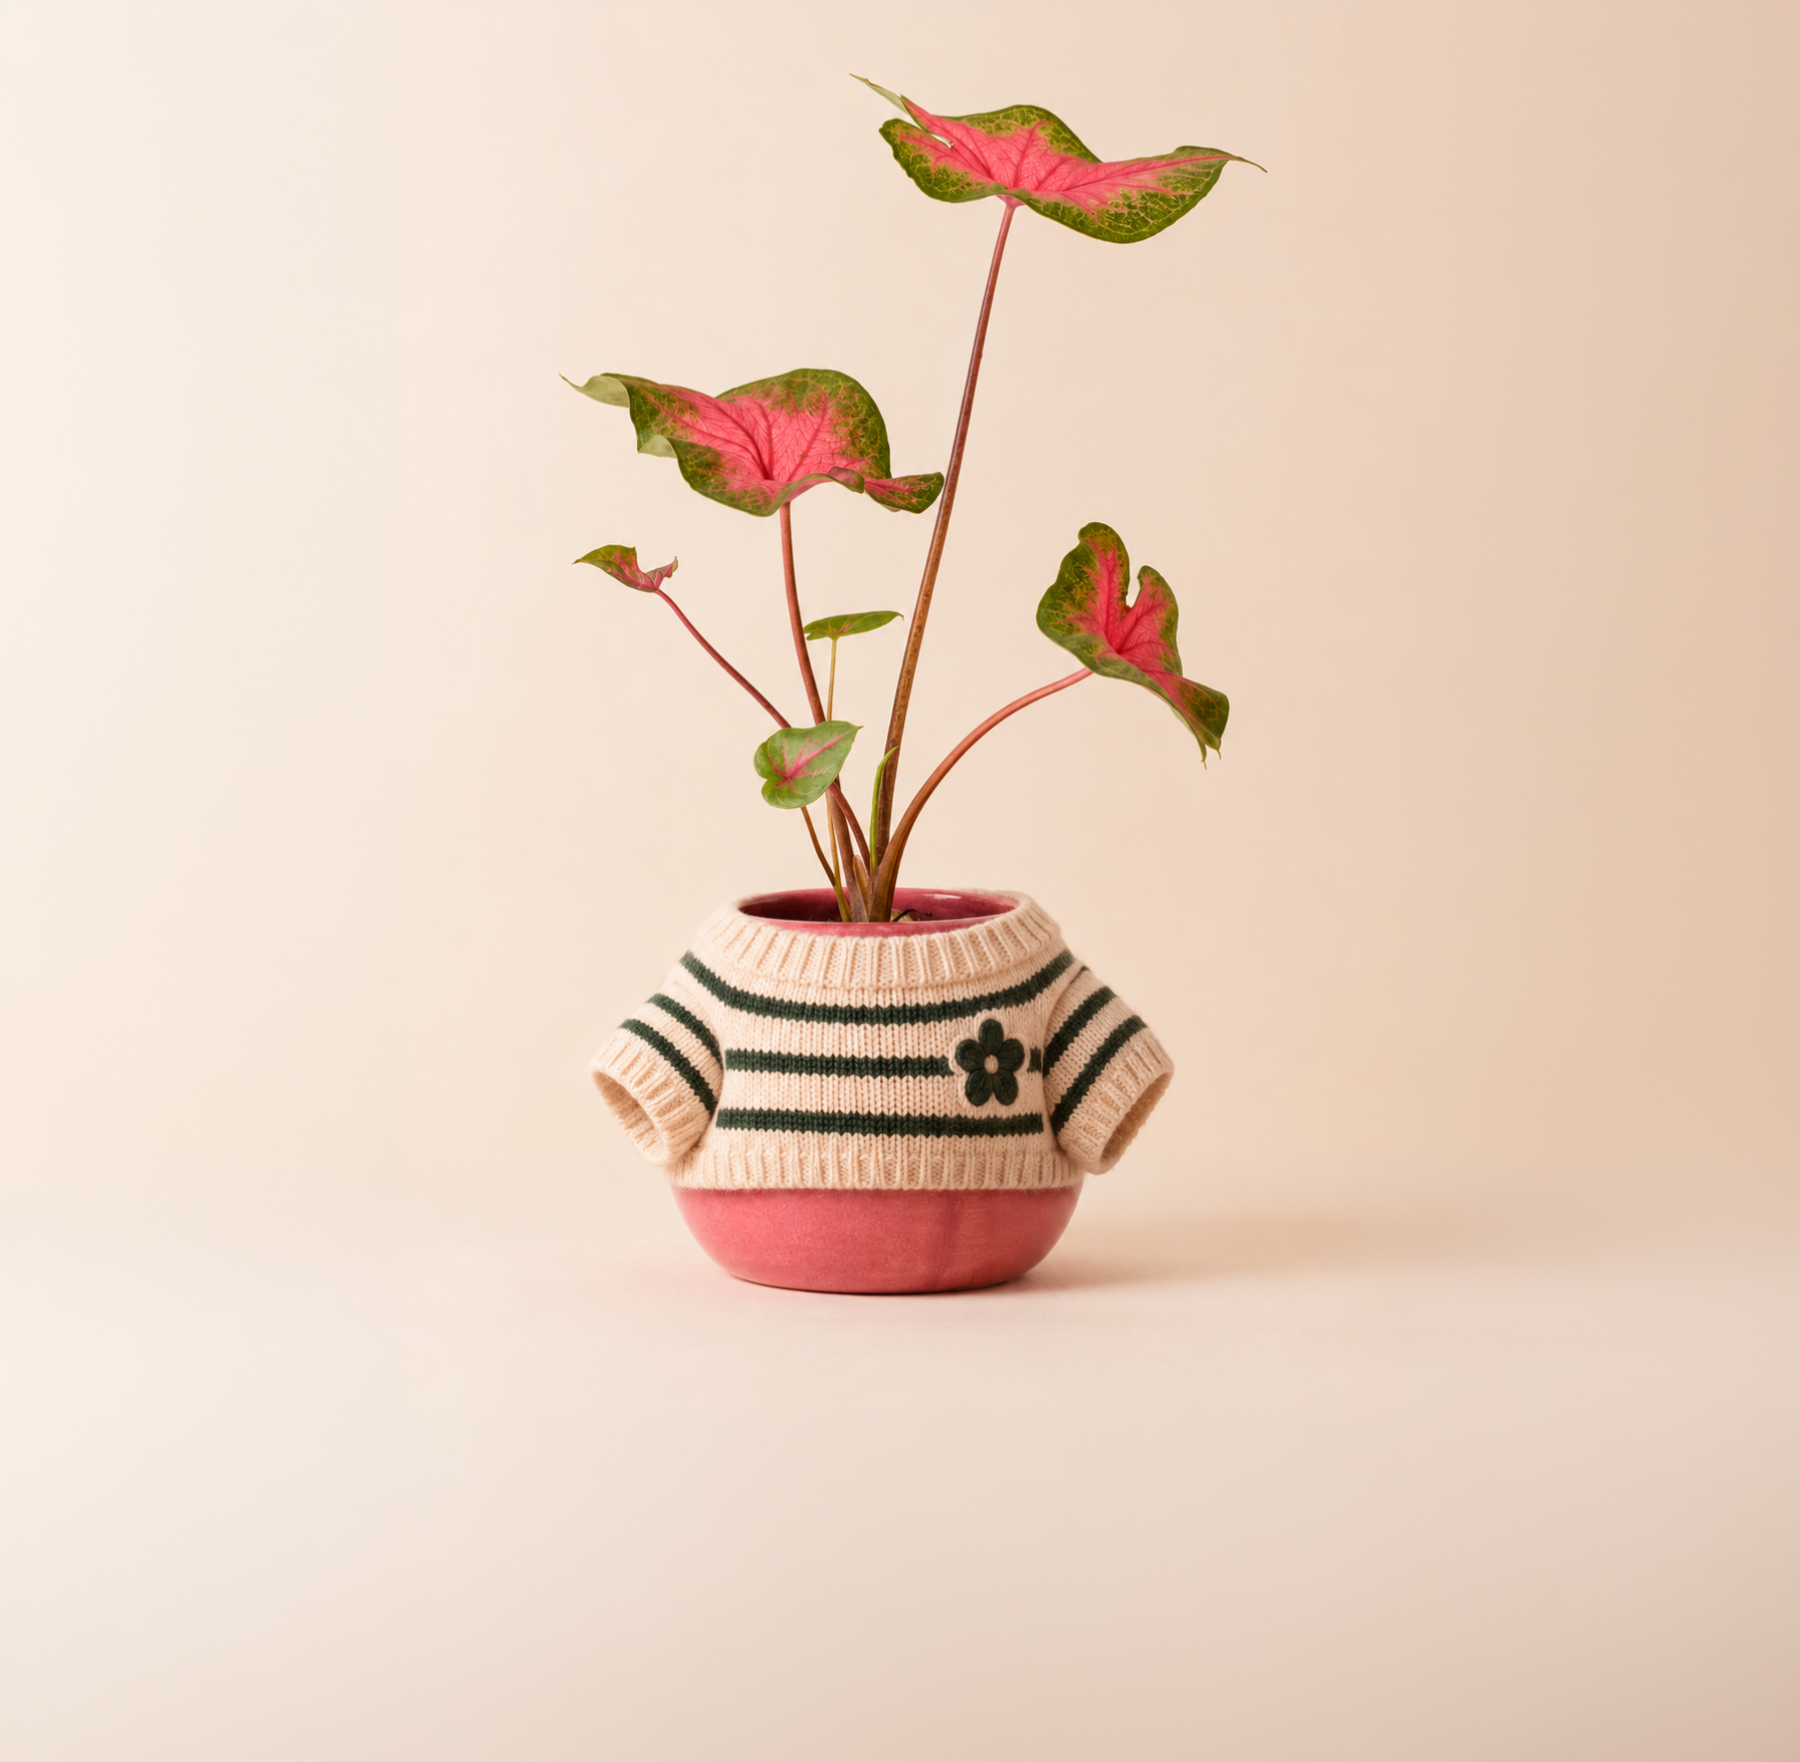
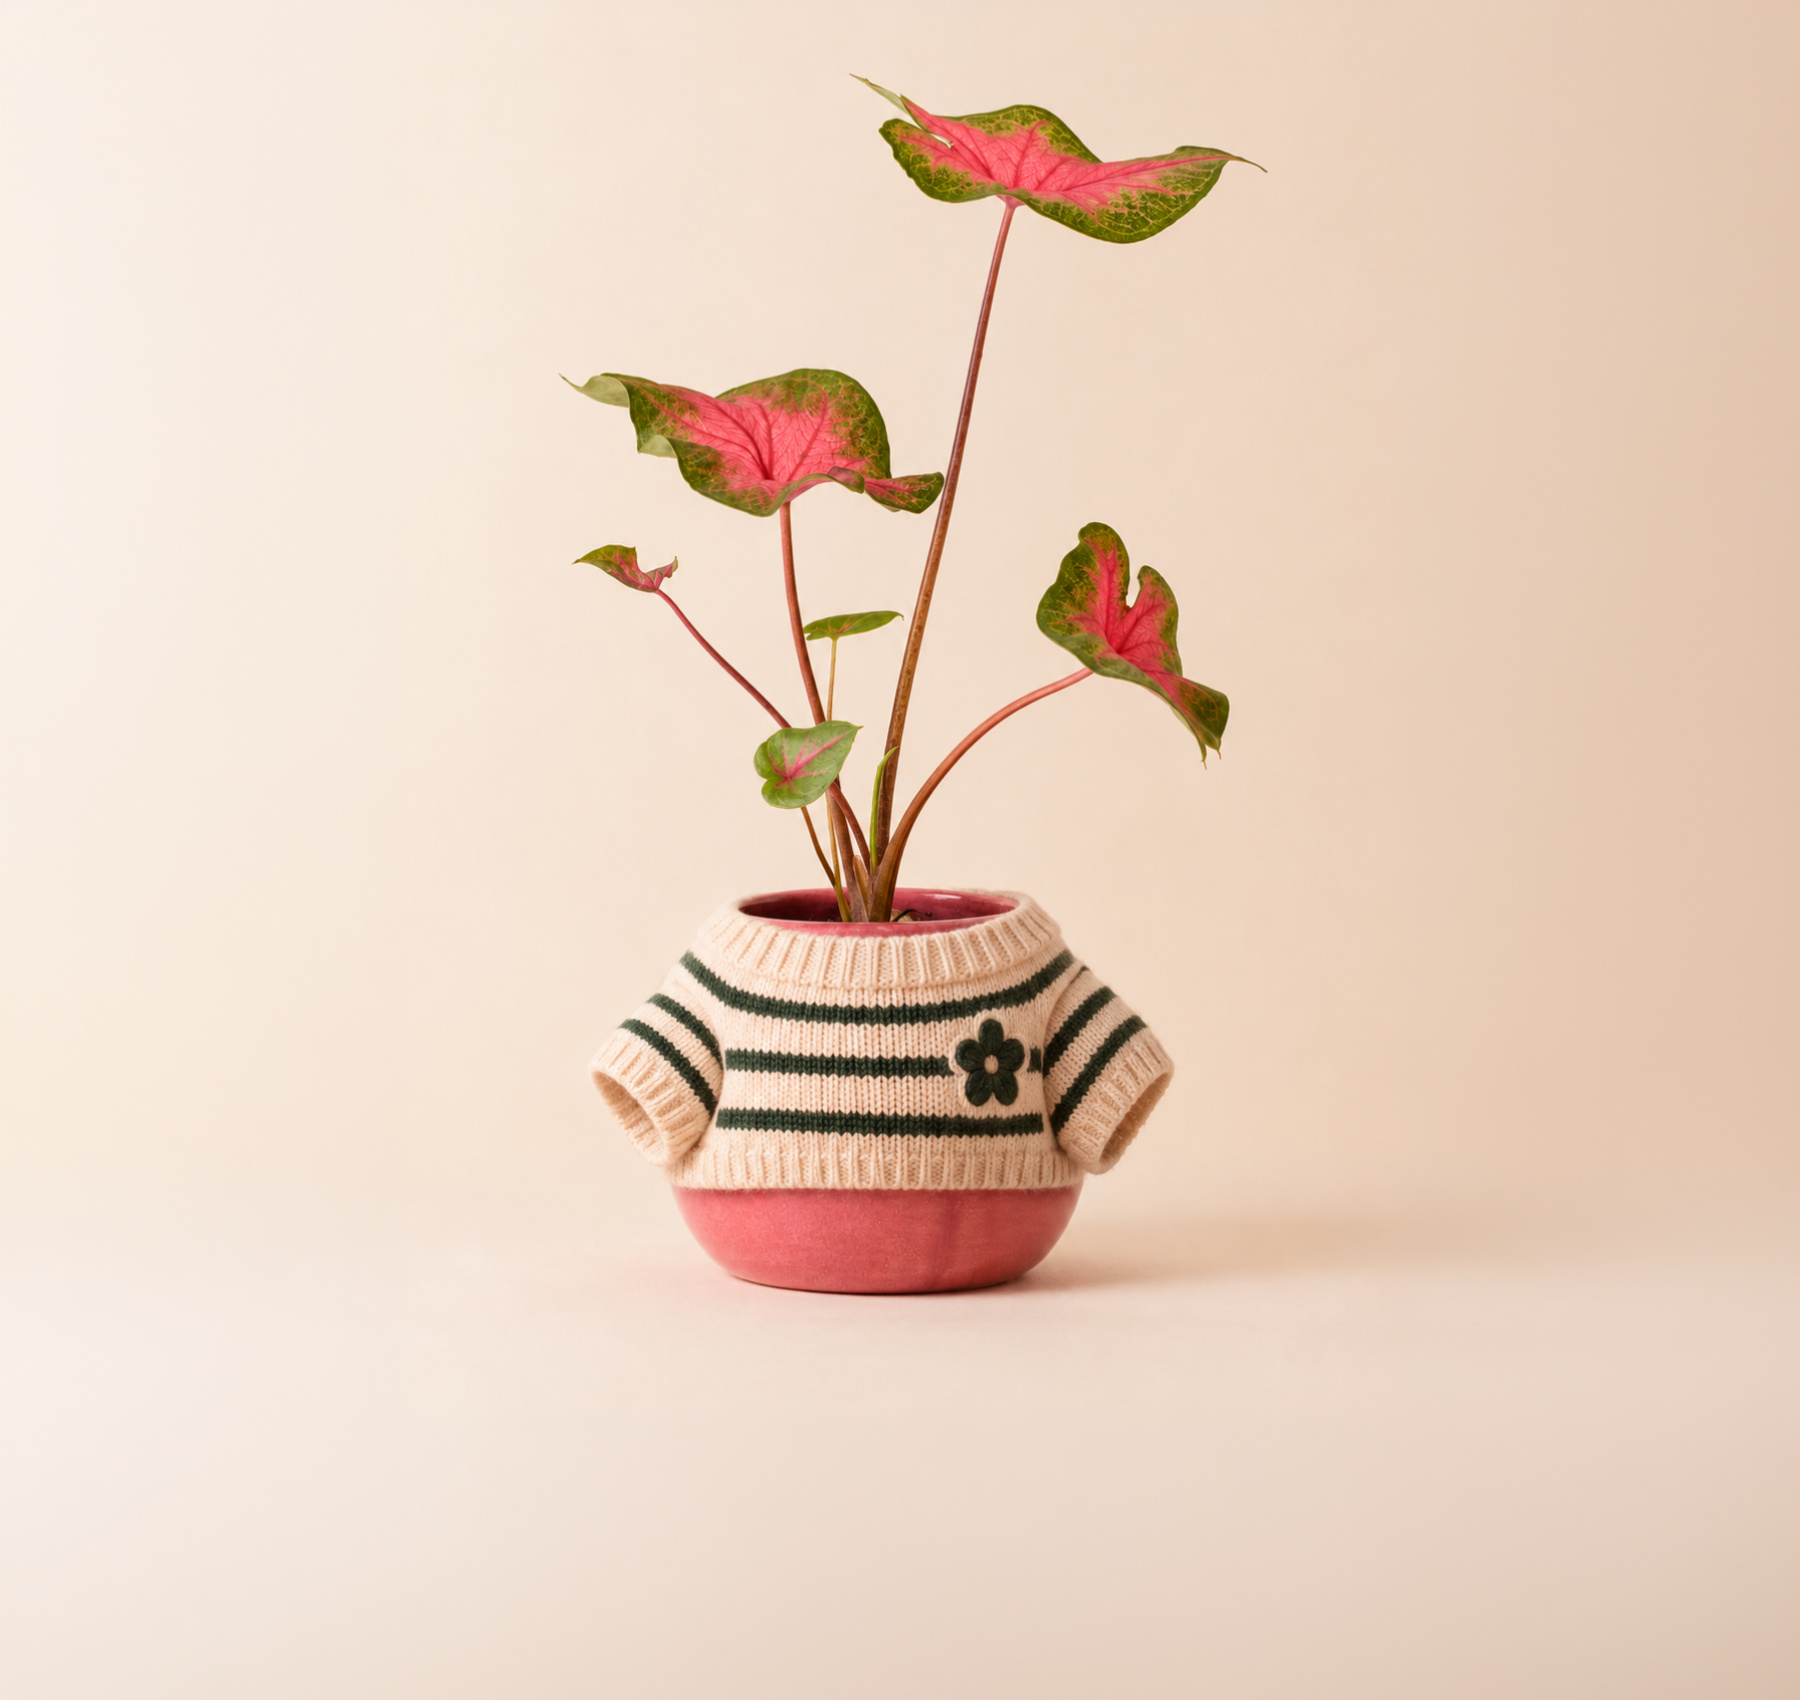
Pagina de cards finalizada e estilizada

Changed region(s): [[0.3111, 0.0312, 0.7778, 0.7794]]

diff --git a/pages/fale-conosco.html b/pages/fale-conosco.html
@@ -25,116 +25,53 @@
             </nav>
         </header>
     </div>
- <main class="container">
-        <section class="secao">
-            <h2>Cadastre-se em nossa Agencia!</h2>
 
-            <form class="formulario" action="#" method="post">
-                <fieldset>
-                    <legend>Identificação</legend>
+    <form class="row g-3">
+        <h2 class="formulario">Tem interesse? Cadastre-se</h2>
 
-                    <div class="campo-formulario">
-                        <label for="nome">Nome Completo</label>
-                        <input type="text" id="nome" name="nome" placeholder="Digite seu nome completo" minlength="3"
-                            max="80" required>
-                    </div>
-
-                    <div class="campo-formulario">
-                        <label for="email">E-mail</label>
-                        <input type="email" id="email" name="email" placeholder="email@exemplo.com.br" required>
-                    </div>
-
-                    <div class="campo-formulario">
-                        <label for="telefone">Telefone</label>
-                        <input type="tel" id="telefone" name="telefone">
-                    </div>
-
-                    <div class="campo-formulario">
-                        <label for="site">Site ou Linkedin</label>
-                        <input type="url" id="site" name="site" placeholder="https://">
-                    </div>
-                </fieldset>
-
-                <fieldset>
-                    <legend>Sobre o Contato</legend>
-
-                    <div class="campo-formulario">
-                        <label for="assunto">Assunto:</label>
-
-                        <select name="assunto" id="assunto" required>
-                            <option value="">Selecione</option>
-                            <option value="projeto">Projeto</option>
-                            <option value="oprtunidade">Oportunidade</option>
-                            <option value="educacao">Educação</option>
-                            <option value="outro">Outro</option>
-                        </select>
-                    </div>
-
-                    <div class="campo-formulario">
-                        <label for="empresa">Empresa:</label>
-
-                        <input type="text" id="empresa" name="empresa" list="empresa-sugeridas">
-
-                        <details id="empresa-sugeridas">
-                            <option value="Empresa de Tecnologia">
-                            <option value="Instituição de Ensino">
-                            <option value="Consultoria">
-                        </details>
-                    </div>
-
-                    <p>Tipo de Contato</p>
-                    <input type="radio" id="profissional" name="tipo-contato" value="profissional">
-                    <label for="profissional">Profissional</label>
-                    <input type="radio" name="tipo-contato" id="academico" value="academico">
-
-                    <label for="academico">Acadêmico</label>
-                </fieldset>
-                
-                <fieldset>
-                    <legend>Preferências</legend>
-
-                    <div class="campo-formulario">
-                        <label for="data">Data preferida para retorno:</label>
-                        <input type="date" name="data" id="data">
-                    </div>
-
-                    <div class="campo-formulario">
-                        <label for="horario">Horario preferido: </label>
-                        <input type="time" name="horario" id="horario">
-                    </div>
-
-                    <div class="campo-formulario">
-                        <label for="urgencia">Urgênia de a 1 a 5</label>
-                        <input type="range" id="urgencia" name="urgencia" min="1" max="5" value="1">
-                    </div>
-
-                    <div class="campo-formulario">
-                        <label for="cor">Escolha a cor:</label>
-                        <input type="color" name="cor" id="cor" value="#2563ff">
-                    </div>
-
-                    <div class="campo-formulario">
-                        <label for="arquivo">Anexar arquivo: </label>
-                        <input type="text" id="arquivo" name="arquivo" accept=".pdf, .doc, .docx">
-                    </div>
-                </fieldset>
-
-                <fieldset>
-                    <legend>Mensagem:</legend>
-
-                    <div class="campo-formulario">
-                        <label for="mensagem">Escreva sua mensagem:</label>
-                        <textarea name="mensagem" id="mensagem" rows="8" minlength="10" maxlength="1000" placeholder="Escreva aqui..." required></textarea>
-                    </div>
-                </fieldset>
-                <div class="acoes-formulario">
-                    <button type="submit">Enviar</button>
-                    <button type="reset">Limpar</button>
-                </div>
-            </form>
-        </section>
-
-    </main>
+        <div class="md:col-6">
+            <label for="inputEmail4" class="form-label">Email</label>
+            <input type="email" class="form-control" id="inputEmail4">
+        </div>
+        <div class="md:col-6">
+            <label for="inputPassword4" class="form-label">Password</label>
+            <input type="password" class="form-control" id="inputPassword4">
+        </div>
+        <div class="col-12">
+            <label for="inputAddress" class="form-label">Address</label>
+            <input type="text" class="form-control" id="inputAddress" placeholder="1234 Main St">
+        </div>
+        <div class="col-12">
+            <label for="inputAddress2" class="form-label">Address 2</label>
+            <input type="text" class="form-control" id="inputAddress2" placeholder="Apartment, studio, or floor">
+        </div>
+        <div class="md:col-6">
+            <label for="inputCity" class="form-label">City</label>
+            <input type="text" class="form-control" id="inputCity">
+        </div>
+        <div class="md:col-4">
+            <label for="inputState" class="form-label">State</label>
+            <select id="inputState" class="form-control">
+                <option selected>Choose...</option>
+                <option>...</option>
+            </select>
+        </div>
+        <div class="md:col-2">
+            <label for="inputZip" class="form-label">Zip</label>
+            <input type="text" class="form-control" id="inputZip">
+        </div>
+        <div class="col-12">
+            <div class="form-field">
+                <input type="checkbox" id="gridCheck" class="check">
+                <label for="gridCheck">
+                    Check me out
+                </label>
+            </div>
+        </div>
+        <div class="col-12">
+            <button type="submit" class="btn-solid theme-primary">Sign in</button>
+        </div>
+    </form>
 
     <footer class="rodape">
         <div class="container">

diff --git a/pages/for-plant.html b/pages/for-plant.html
@@ -29,7 +29,7 @@
 
         <main>
             <article class="conteudo">
-                <h2> Conheça nosso pacote:</h2>
+                <h2> Nosso pacote 🌟</h2>
             </article>
 
             <div class="container-cards">
@@ -39,48 +39,52 @@
                     <div class="card-body">
                         <h3>Roupas estilizadas</h3>
                         <p>Para manter uma boa imagem na mídia, disponibilizamos um estilista
-                        particular que irá cuidar de seu visual em todas as ocassioes.</p>
+                            particular que irá cuidar de seu visual em todas as ocassioes.</p>
                     </div>
                 </div>
 
                 <div class="card">
-                    <img src="../img/maquiagem.png" alt="Imagem do card">
+                    <img src="../img/Firefly01.jpg" alt="Imagem do card">
                     <div class="card-body">
                         <h3>Máquiagens de alto nível</h3>
                         <p>Álem de ter seu maquiador particular támbem disponibilizamos kits de
-                        máquiagens profissionais todos os meses para uso próprio!</p>
+                            máquiagens profissionais todos os meses para uso próprio!</p>
                     </div>
                 </div>
 
                 <div class="card">
-                    <img src="../img/imagem3.png" alt="Imagem do card">
+                    <img src="../img/Firefly02.jpg" alt="Imagem do card">
                     <div class="card-body">
-                        <h3>Título do card 3</h3>
-                        <p>Adicione aqui uma descrição para apresentar o conteúdo deste card.</p>
+                        <h3>Up no visual</h3>
+                        <p>Quer destacar ainda mais sua beleza natural? Aqui proporcionamos tintas especializadas para
+                            você mudar a cor das suas folhas e ficar ainda mais bonita!</p>
                     </div>
                 </div>
 
                 <div class="card">
-                    <img src="../img/imagem4.png" alt="Imagem do card">
+                    <img src="../img/Firefly_multi-edit.jpg" alt="Imagem do card">
                     <div class="card-body">
-                        <h3>Título do card 4</h3>
-                        <p>Adicione aqui uma descrição para apresentar o conteúdo deste card.</p>
+                        <h3>Aumenta Fama</h3>
+                        <p>O Aumenta Fama proporciona um brilho a mais em sua imagem, te deixando com um brilho natural
+                            de estrela!</p>
                     </div>
                 </div>
 
                 <div class="card">
-                    <img src="../img/imagem5.png" alt="Imagem do card">
+                    <img src="../img/Firefly_multi-edit02.jpg" alt="Imagem do card">
                     <div class="card-body">
-                        <h3>Título do card 5</h3>
-                        <p>Adicione aqui uma descrição para apresentar o conteúdo deste card.</p>
+                        <h3>Engajamento infinito</h3>
+                        <p>Proporcionamos para você o melhor público com o melhor engajamento de acordo com o seu tipo
+                            de conteúdo!</p>
                     </div>
                 </div>
 
                 <div class="card">
-                    <img src="../img/imagem6.png" alt="Imagem do card">
+                    <img src="../img/Firefly_multi-edit03.jpg" alt="Imagem do card">
                     <div class="card-body">
-                        <h3>Título do card 6</h3>
-                        <p>Adicione aqui uma descrição para apresentar o conteúdo deste card.</p>
+                        <h3>Grandes Parcerias</h3>
+                        <p>Em nosso pacote também incluimos uma grande variedade de parcerias com diferentes marcas
+                            famosas!</p>
                     </div>
                 </div>
 

diff --git a/style/style.css b/style/style.css
@@ -28,10 +28,18 @@ h1 a:hover {
 }
 
 h2 {
-    font-size: 'Montserrat';
-    color: #F4E5CC;
-    margin: 10px 100px;
-    padding: 55px 20px;
+    font-family: 'Montserrat';
+    font-size: 35px;
+    color: #494e3a;
+    margin: 20px 100px;
+    padding: 40px 20px;
+    text-align: center;
+}
+
+h2 span {
+    font-family: Happy;
+    color: #bc575f;
+    font-size: 45px;
 }
 
 p {
@@ -46,7 +54,6 @@ p {
 
 .paragrafo span {
     font-family: Happy;
-    color: #bc575f;
 }
 
 .figure {
@@ -77,6 +84,81 @@ p {
 .figure img:hover {
     transform: scale(1.03);
 }
+
+
+form.row {
+    max-width: 650px;
+    margin: 40px auto;
+    padding: 30px;
+    background-color: #f7f8f3;
+    border-radius: 15px;
+    box-shadow: 0 4px 15px rgba(0, 0, 0, 0.08);
+}
+
+.form-label {
+    display: block;
+    margin-bottom: 8px;
+    color: #405442;
+    font-size: 15px;
+    font-weight: 600;
+}
+
+.form-control {
+    width: 100%;
+    padding: 11px 13px;
+    border: 1px solid #d5dfd2;
+    border-radius: 8px;
+    background-color: white;
+    font-size: 14px;
+    outline: none;
+    transition: 0.3s;
+    box-sizing: border-box;
+}
+
+.form-control:focus {
+    border-color: #829b7d;
+    box-shadow: 0 0 5px rgba(100, 140, 100, 0.2);
+}
+
+.form-field {
+    display: flex;
+    align-items: center;
+    gap: 8px;
+}
+
+.check {
+    accent-color: #607d60;
+    cursor: pointer;
+}
+
+.form-field label {
+    color: #526452;
+    font-size: 14px;
+    cursor: pointer;
+}
+
+.btn-solid {
+    width: 100%;
+    padding: 12px;
+    border: none;
+    border-radius: 8px;
+    background-color: #607d60;
+    color: #F4E5CC;
+    font-size: 15px;
+    font-weight: 600;
+    cursor: pointer;
+    transition: 0.3s;
+}
+
+.btn-solid:hover {
+    background-color: #455f47;
+    transform: translateY(-2px);
+}
+
+.formulario{
+    
+}
+
 
 body {
     font-family: 'Montserrat';

diff --git a/pages/about-us.html b/pages/about-us.html
@@ -28,6 +28,7 @@
 
     <main>
         <div>
+            <h2>Sobre a <span>florar!</span></h2>
             <p class="paragrafo">
                 <br>
                 A <span>Florar</span> é muito mais do que apenas uma agência: é um caminho de oportunidades, sonhos e
@@ -82,7 +83,7 @@
                 estrela dentro de si, e estamos aqui para ajudá-la a crescer, conquistar seu público e, principalmente,
                 <br>
                 florescer para o sucesso! <br>
-
+                <br><br>
             </p>
         </div>
     </main>
